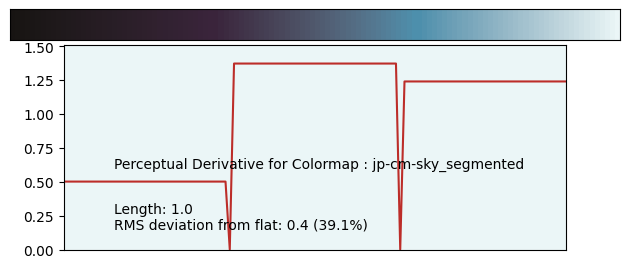
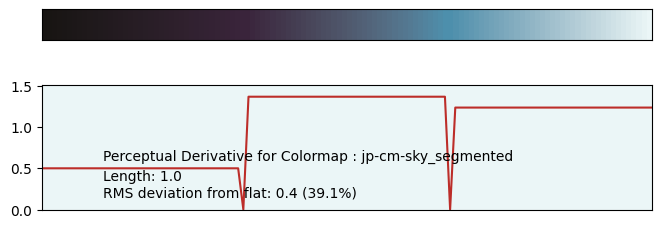
update readme

Changed region(s): [[0.0, 0.0307, 0.9952, 0.9518]]

diff --git a/gen/gen.py b/gen/gen.py
@@ -112,7 +112,7 @@ def calculatePD(gradient, RGB, name):
     ax.get_xaxis().set_visible(False)
     ax.margins(0.0)
     ax.set_facecolor(aijiro)
-    ax.set_aspect(n_keys*16/delta_ymax(local_derivs))
+    ax.set_aspect(n_keys*8/delta_ymax(local_derivs))
     return fig
 
 def gen_cmaps(cmaps,segmented=False):
